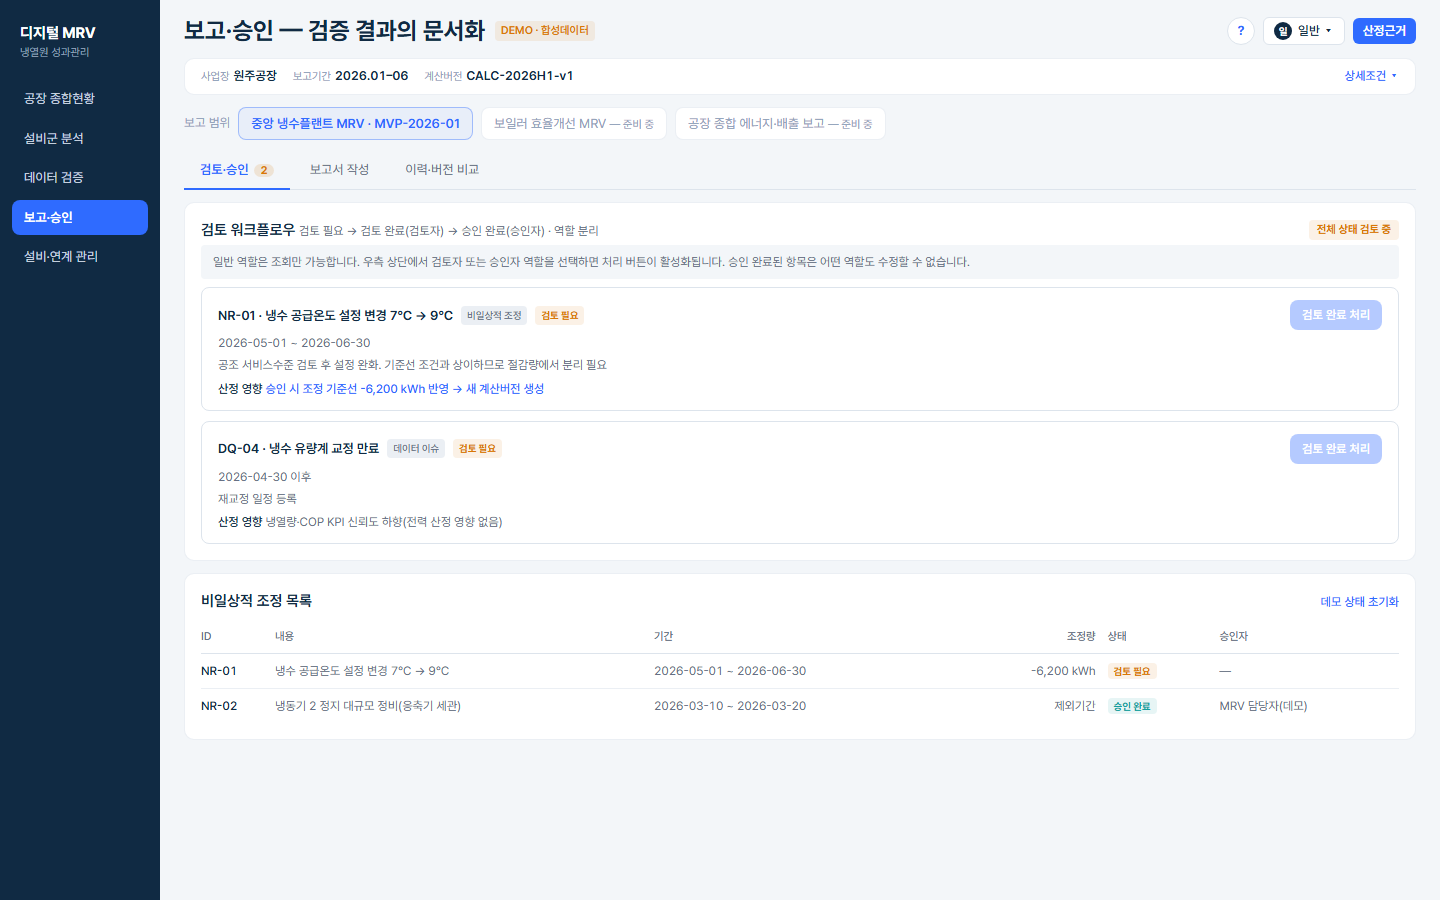
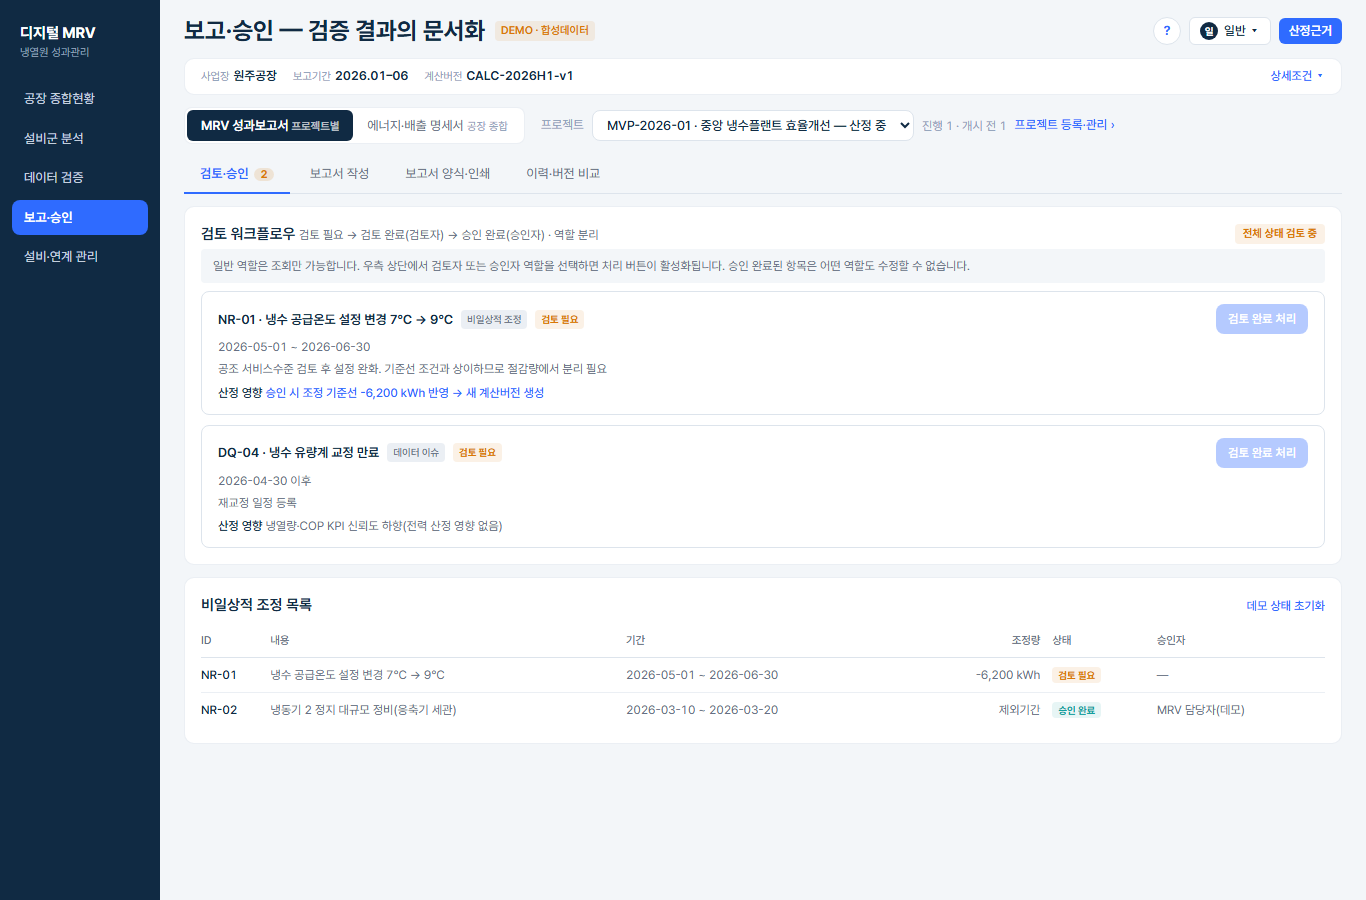
보고·승인 범위 선택 UI 재구성 — 유형 분리 + 프로젝트 드롭다운
- 가로 칩 나열 제거 (프로젝트 증가 시 무한 확장·비직관 문제)
- 보고서 유형 세그먼트 2종으로 분리: MRV 성과보고서(프로젝트별) / 에너지·배출 명세서(공장 종합)
- MRV 유형은 프로젝트 드롭다운으로 선택 (MVP-2026-01 산정 중 · MVP-2026-02 개시 전)
  — 프로젝트가 늘어도 목록으로 흡수, 진행/개시 전 카운트 병기
- "프로젝트 등록·관리 ›" 링크로 설비·연계 관리 화면 연결
- 명세서 선택 시 프로젝트 드롭다운 숨김 (유형별 관심사 분리)

diff --git a/src/screens/Reporting.tsx b/src/screens/Reporting.tsx
@@ -141,41 +141,50 @@ export default function Reporting() {
       </header>
       <ContextBar />
 
-      {/* 보고 범위 — MRV 프로젝트 / 공장 종합 명세서 선택 */}
-      <div className="no-print flex shrink-0 flex-wrap items-center gap-2">
-        <span className="text-[12.5px] text-slate-400">보고 범위</span>
-        <button
-          onClick={() => setRptScope("chiller")}
-          className={`rounded-lg border px-3 py-1.5 text-[13px] transition-colors ${
-            rptScope === "chiller"
-              ? "border-accent/40 bg-accent/5 font-semibold text-accent"
-              : "border-line/60 bg-white text-body hover:border-accent/40"
-          }`}
-        >
-          중앙 냉수플랜트 MRV · MVP-2026-01
-        </button>
-        <button
-          onClick={() => setRptScope("boiler")}
-          title="보일러 폐열회수 개선 프로젝트 — 개시 전. 동일 보고서 양식·산정 파이프라인이 재사용됩니다 (확장 데모)"
-          className={`rounded-lg border px-3 py-1.5 text-[13px] transition-colors ${
-            rptScope === "boiler"
-              ? "border-accent/40 bg-accent/5 font-semibold text-accent"
-              : "border-line/60 bg-white text-body hover:border-accent/40"
-          }`}
-        >
-          보일러 효율개선 MRV <span className="text-[11px] opacity-80">— 개시 전</span>
-        </button>
-        <button
-          onClick={() => setRptScope("inventory")}
-          title="온실가스 배출량·에너지 사용량 명세서 작성 기능 (별지 11호 참고 · 데모)"
-          className={`rounded-lg border px-3 py-1.5 text-[13px] transition-colors ${
-            rptScope === "inventory"
-              ? "border-accent/40 bg-accent/5 font-semibold text-accent"
-              : "border-line/60 bg-white text-body hover:border-accent/40"
-          }`}
-        >
-          공장 종합 에너지·배출 명세서 <span className="text-[11px] opacity-80">2026 상반기</span>
-        </button>
+      {/* 보고서 유형 분리: ① MRV 성과보고서(프로젝트별 드롭다운 — 확장 대응) ② 공장 종합 명세서(별도 관리) */}
+      <div className="no-print flex shrink-0 flex-wrap items-center gap-x-4 gap-y-2">
+        <div className="flex items-center rounded-lg border border-line/60 bg-white p-0.5">
+          {(
+            [
+              ["mrv", "MRV 성과보고서", "프로젝트별"],
+              ["inventory", "에너지·배출 명세서", "공장 종합"],
+            ] as Array<[string, string, string]>
+          ).map(([key, label, sub]) => {
+            const on = key === "inventory" ? rptScope === "inventory" : rptScope !== "inventory";
+            return (
+              <button
+                key={key}
+                onClick={() => setRptScope(key === "inventory" ? "inventory" : "chiller")}
+                className={`rounded-md px-3.5 py-1.5 text-[13px] transition-colors ${
+                  on ? "bg-navy font-semibold text-white" : "text-body hover:text-navy"
+                }`}
+              >
+                {label} <span className={`text-[11px] ${on ? "opacity-70" : "text-slate-400"}`}>{sub}</span>
+              </button>
+            );
+          })}
+        </div>
+
+        {rptScope !== "inventory" && (
+          <div className="flex flex-wrap items-center gap-2">
+            <label className="flex items-center gap-2 text-[12.5px] text-slate-400">
+              프로젝트
+              <select
+                aria-label="MRV 프로젝트 선택"
+                value={rptScope}
+                onChange={(e) => setRptScope(e.target.value as "chiller" | "boiler")}
+                className="rounded-lg border border-line bg-white px-2.5 py-1.5 text-[13px] font-medium text-navy"
+              >
+                <option value="chiller">MVP-2026-01 · 중앙 냉수플랜트 효율개선 — 산정 중</option>
+                <option value="boiler">MVP-2026-02 · 보일러 폐열회수 — 개시 전</option>
+              </select>
+            </label>
+            <span className="tnum text-[12px] text-slate-400">진행 1 · 개시 전 1</span>
+            <button onClick={() => setMenu("master")} className="text-[12.5px] font-medium text-accent hover:underline">
+              프로젝트 등록·관리 ›
+            </button>
+          </div>
+        )}
       </div>
 
       {rptScope === "inventory" && (
